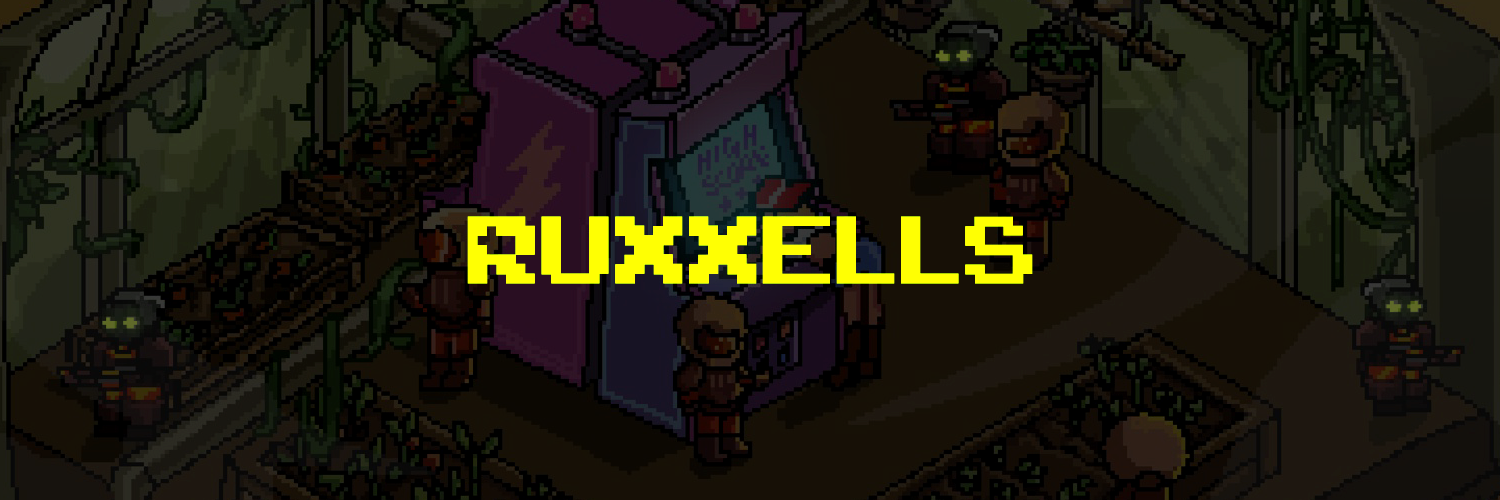
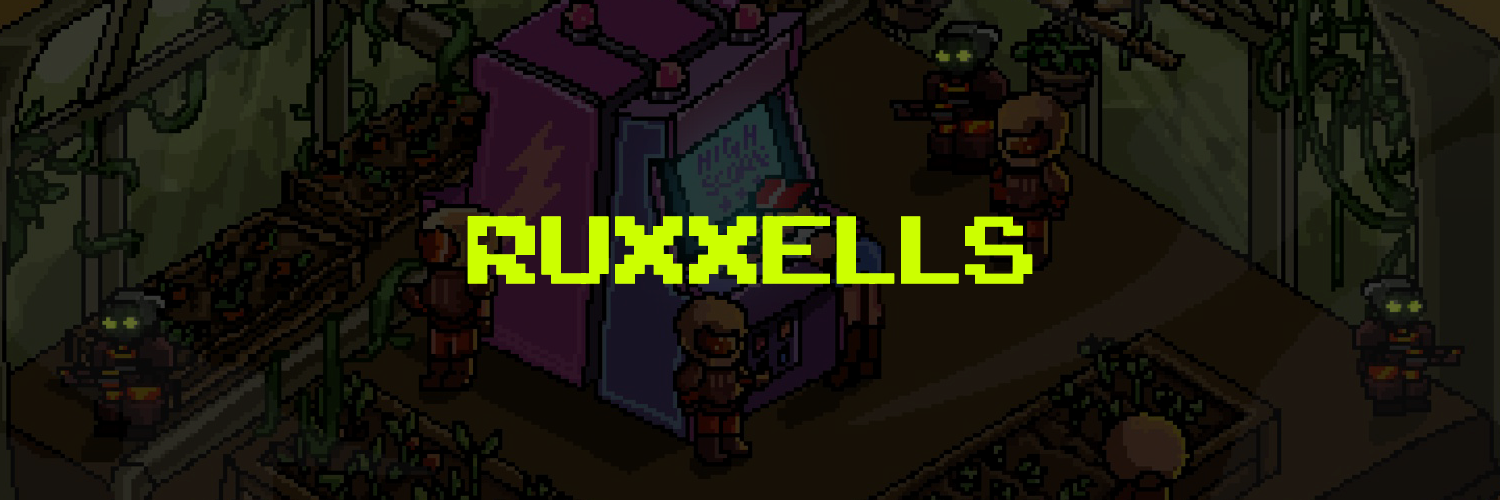
An entrance, a lime wordmark, and no price claim
The site landed straight on a full-bleed banner with a row of stats arriving
at once, which gives the eye nowhere to start. The wordmark now holds on
black for a moment and the cover lifts away — lifts rather than fades,
because the banner underneath is the same artwork and a crossfade would read
as a slow image. Once per session, skipped on reduced motion, and it never
waits on the network: the page is server-rendered and ready underneath, so
holding it back would be inventing a wait rather than covering one.

The banner's wordmark was pure yellow while the logo files and every accent
on the site use the lime the soldier's eyes are painted in. Two brand colours
a few hundred pixels apart reads as a mistake. The recolour has to run after
the brightness lift, not before: 204 * 1.45 saturates to 255 and the lime
comes back out yellow, which is what happened on the first attempt.

Price is TBA. It was claimed as free in six places, including the phrase
people are asked to post publicly — the hardest one to walk back.

Changed region(s): [[0.3067, 0.42, 0.7053, 0.57]]

diff --git a/src/components/Intro.tsx b/src/components/Intro.tsx
@@ -1,0 +1,126 @@
+"use client";
+
+import Image from "next/image";
+import { useEffect, useState, useSyncExternalStore } from "react";
+import { AnimatePresence, motion, useReducedMotion } from "framer-motion";
+
+/**
+ * The way in.
+ *
+ * The wordmark on black, then it lifts. It exists because the page behind it
+ * is a full-bleed banner and a row of stats arriving at once, and landing
+ * straight on all of that gives the eye nowhere to start.
+ *
+ * It is deliberately short and it never waits on the network: the page is
+ * server-rendered and ready underneath, so holding it back for a load event
+ * would be inventing a wait rather than covering one. Anyone arriving a
+ * second time skips it entirely.
+ */
+
+const EASE = [0.16, 1, 0.3, 1] as const;
+
+/** How long the mark holds before it lifts. */
+const HOLD_MS = 1100;
+
+/** Remembered for the session, not forever — a reload is a fresh visit the
+    next day, and the intro is worth seeing once per sitting. */
+const SEEN_KEY = "ruxxells.intro.seen";
+
+/**
+ * Whether this session has already seen it.
+ *
+ * Read through `useSyncExternalStore` rather than set from an effect: the
+ * server has to render nothing, the client has to decide on its first paint,
+ * and doing that with setState inside an effect costs a second render pass
+ * before anything appears.
+ */
+const seenStore = {
+  subscribe: () => () => {},
+  get: () => {
+    try {
+      return sessionStorage.getItem(SEEN_KEY) === "1";
+    } catch {
+      // Private browsing and blocked storage both throw. Showing the intro
+      // is the harmless outcome.
+      return false;
+    }
+  },
+  // On the server there is no session, and the curtain must not be in the
+  // HTML — it would flash for anyone who had already seen it.
+  getServer: () => true,
+};
+
+export function Intro() {
+  const reduced = useReducedMotion();
+  const seen = useSyncExternalStore(
+    seenStore.subscribe,
+    seenStore.get,
+    seenStore.getServer,
+  );
+
+  const [dismissed, setDismissed] = useState(false);
+  const show = !seen && !reduced && !dismissed;
+
+  useEffect(() => {
+    if (!show) return;
+
+    const t = setTimeout(() => {
+      setDismissed(true);
+      try {
+        sessionStorage.setItem(SEEN_KEY, "1");
+      } catch {}
+    }, HOLD_MS);
+
+    return () => clearTimeout(t);
+  }, [show]);
+
+  // The page must not scroll behind the curtain.
+  useEffect(() => {
+    if (!show) return;
+    const prev = document.body.style.overflow;
+    document.body.style.overflow = "hidden";
+    return () => {
+      document.body.style.overflow = prev;
+    };
+  }, [show]);
+
+  return (
+    <AnimatePresence>
+      {show && (
+        <motion.div
+          key="intro"
+          className="fixed inset-0 z-[100] flex items-center justify-center bg-void"
+          initial={{ opacity: 1 }}
+          // Lifts rather than fades: the banner underneath is the same
+          // artwork, so sliding the cover away reads as a reveal where a
+          // crossfade would just look like a slow image.
+          exit={{ y: "-100%", transition: { duration: 0.7, ease: EASE } }}
+        >
+          <motion.div
+            className="px-8"
+            initial={{ opacity: 0, scale: 0.94 }}
+            animate={{ opacity: 1, scale: 1 }}
+            transition={{ duration: 0.5, ease: EASE }}
+          >
+            <Image
+              src="/brand/wordmark-lime.png"
+              alt="RUXXELLS"
+              width={866}
+              height={245}
+              priority
+              className="pixelated h-auto w-[min(72vw,26rem)]"
+            />
+
+            <motion.div
+              aria-hidden
+              className="mt-5 h-0.5 origin-left bg-lime"
+              initial={{ scaleX: 0 }}
+              animate={{ scaleX: 1 }}
+              transition={{ duration: HOLD_MS / 1000, ease: "linear" }}
+            />
+          </motion.div>
+        </motion.div>
+      )}
+    </AnimatePresence>
+  );
+}

diff --git a/src/components/world/Hero.tsx b/src/components/world/Hero.tsx
@@ -42,7 +42,9 @@ export function Hero({ cleared }: { cleared: number | null }) {
           className="mx-auto w-[240%] max-w-none sm:w-full sm:max-w-[1500px]"
           initial={{ opacity: 0, scale: 0.98 }}
           animate={{ opacity: 1, scale: 1 }}
-          transition={{ duration: 0.7, ease: EASE }}
+          // Delayed past the intro's lift, or the banner finishes its
+          // entrance while the curtain is still over it.
+          transition={{ duration: 0.7, delay: 0.5, ease: EASE }}
         >
           <Image
             src="/brand/banner.png"
@@ -65,7 +67,7 @@ export function Hero({ cleared }: { cleared: number | null }) {
         <motion.div
           initial={{ opacity: 0, y: 16 }}
           animate={{ opacity: 1, y: 0 }}
-          transition={{ duration: 0.6, delay: 0.1, ease: EASE }}
+          transition={{ duration: 0.6, delay: 0.65, ease: EASE }}
         >
           <p className="eyebrow flex flex-wrap items-center gap-2 text-ash">
             <span className="text-lime">{DROP_PITCH.line}</span>

diff --git a/src/components/world/World.tsx b/src/components/world/World.tsx
@@ -5,6 +5,7 @@ import Link from "next/link";
 import { motion } from "framer-motion";
 import { FiArrowRight } from "react-icons/fi";
 import { DROP } from "@/lib/sectors";
+import { Intro } from "../Intro";
 import { Gallery } from "./Gallery";
 import { Hero } from "./Hero";
 import { Rooms } from "./Rooms";
@@ -23,6 +24,8 @@ const EASE = [0.16, 1, 0.3, 1] as const;
 export function World({ cleared }: { cleared: number | null }) {
   return (
     <div className="relative">
+      <Intro />
+
       {/* The backdrop for the whole page, behind every section. */}
       <div aria-hidden className="field" />
 
@@ -85,7 +88,7 @@ export function World({ cleared }: { cleared: number | null }) {
               Get on the list
             </h2>
             <p className="mx-auto mt-4 max-w-sm text-sm leading-relaxed text-ash">
-              Four steps, then your wallet. {DROP.price} mint, supply{" "}
+              Four steps, then your wallet. Price {DROP.price}, supply{" "}
               {DROP.supply}.
             </p>
 

diff --git a/src/app/layout.tsx b/src/app/layout.tsx
@@ -4,7 +4,7 @@ import "./globals.css";
 
 const TITLE = "RUXXELLS · Clearance required";
 const DESCRIPTION =
-  "Six sectors, one door, and a list that closes. Clear four steps to be sure of a spot on the free mint.";
+  "Four sectors, one door, and a list that closes. Clear four steps to be sure of a spot.";
 
 export const metadata: Metadata = {
   metadataBase: new URL(SITE_URL),
@@ -15,7 +15,7 @@ export const metadata: Metadata = {
   title: { default: TITLE, template: "%s · RUXXELLS" },
   description: DESCRIPTION,
   applicationName: "RUXXELLS",
-  keywords: ["RUXXELLS", "NFT", "free mint", "PFP", "allowlist", "pixel art"],
+  keywords: ["RUXXELLS", "NFT", "mint", "PFP", "allowlist", "pixel art"],
 
   openGraph: {
     type: "website",

diff --git a/src/app/clearance/page.tsx b/src/app/clearance/page.tsx
@@ -6,7 +6,7 @@ import { currentAccount } from "@/lib/x-session";
 import { SECTORS } from "@/lib/sectors";
 
 const DESCRIPTION =
-  "Four channels and a wallet. The list is the only way to be sure of a spot on the free mint.";
+  "Four channels and a wallet. The list is the only way to be sure of a spot.";
 
 export const metadata = {
   // The root layout's template turns this into "Clearance · RUXXELLS".

diff --git a/src/lib/quests.ts b/src/lib/quests.ts
@@ -12,7 +12,7 @@ export const X_ACCOUNT = "ruxxells";
  * picked up different spacing on its way through a client still passes — but
  * the words themselves have to be there.
  */
-export const QUOTE_PHRASE = "The gate is open\n\nRUXXELLS\n\nFree mint";
+export const QUOTE_PHRASE = "The gate is open\n\nRUXXELLS\n\nMinting on Robinhood";
 
 /**
  * The posts a quote may point at — newest first.

diff --git a/src/lib/sectors.ts b/src/lib/sectors.ts
@@ -37,7 +37,7 @@ export type Sector = {
  */
 export const DROP = {
   supply: "TBA",
-  price: "Free",
+  price: "TBA",
   date: "TBA",
 
   /**
@@ -55,7 +55,7 @@ export const DROP = {
 /** The headline the drop is announced with. */
 export const DROP_PITCH = {
   title: "The gate is open",
-  line: "Free mint on Robinhood",
+  line: "Minting on Robinhood",
 } as const;
 
 /**
